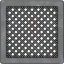
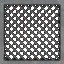
Added tile and slate blocks

diff --git a/core/src/main/java/org/delaunois/ialon/state/BlockSelectionState.java b/core/src/main/java/org/delaunois/ialon/state/BlockSelectionState.java
@@ -91,6 +91,8 @@ import static org.delaunois.ialon.IalonBlock.METAL2;
 import static org.delaunois.ialon.IalonBlock.METAL3;
 import static org.delaunois.ialon.IalonBlock.METAL4;
 import static org.delaunois.ialon.IalonBlock.METAL5;
+import static org.delaunois.ialon.IalonBlock.SLATE;
+import static org.delaunois.ialon.IalonBlock.TILE_RED;
 
 
 public class BlockSelectionState extends BaseAppState implements ActionListener, AnalogListener {
@@ -186,6 +188,28 @@ public class BlockSelectionState extends BaseAppState implements ActionListener,
             getName(GRAVEL, STAIRS_EAST),
             getName(GRAVEL, STAIRS_INNER_CORNER_SOUTH),
             getName(GRAVEL, STAIRS_OUTER_CORNER_SOUTH),
+
+            getName(SLATE, CUBE),
+            getName(SLATE, DOUBLE_SLAB),
+            getName(SLATE, SLAB),
+            getName(SLATE, PLATE),
+            getName(SLATE, WEDGE_SOUTH),
+            getName(SLATE, PYRAMID),
+            getName(SLATE, POLE),
+            getName(SLATE, STAIRS_EAST),
+            getName(SLATE, STAIRS_INNER_CORNER_SOUTH),
+            getName(SLATE, STAIRS_OUTER_CORNER_SOUTH),
+
+            getName(TILE_RED, CUBE),
+            getName(TILE_RED, DOUBLE_SLAB),
+            getName(TILE_RED, SLAB),
+            getName(TILE_RED, PLATE),
+            getName(TILE_RED, WEDGE_SOUTH),
+            getName(TILE_RED, PYRAMID),
+            getName(TILE_RED, POLE),
+            getName(TILE_RED, STAIRS_EAST),
+            getName(TILE_RED, STAIRS_INNER_CORNER_SOUTH),
+            getName(TILE_RED, STAIRS_OUTER_CORNER_SOUTH),
 
             getName(PALM_TREE_LOG, CUBE),
             getName(PALM_TREE_LOG, DOUBLE_SLAB),

diff --git a/core/src/main/java/org/delaunois/ialon/IalonBlock.java b/core/src/main/java/org/delaunois/ialon/IalonBlock.java
@@ -2,19 +2,39 @@ package org.delaunois.ialon;
 
 public enum IalonBlock {
 
+    TILE_RED("tile_red"),
+    SLATE("slate"),
     METAL1("metal1"),
-    METAL2("metal2"),
+    METAL2("metal2", true, true),
     METAL3("metal3"),
     METAL4("metal4"),
-    METAL5("metal5");
+    METAL5("metal5", true, true);
 
     private final String name;
+    private final boolean solid;
+    private final boolean transparent;
 
     IalonBlock(String name) {
         this.name = name;
+        this.solid = true;
+        this.transparent = false;
+    }
+
+    IalonBlock(String name, boolean solid, boolean transparent) {
+        this.name = name;
+        this.transparent = transparent;
+        this.solid = solid;
     }
 
     public String getName() {
         return name;
+    }
+
+    public boolean isSolid() {
+        return solid;
+    }
+
+    public boolean isTransparent() {
+        return transparent;
     }
 }

diff --git a/core/src/main/java/org/delaunois/ialon/Ialon.java b/core/src/main/java/org/delaunois/ialon/Ialon.java
@@ -405,7 +405,7 @@ public class Ialon extends SimpleApplication implements ActionListener {
     private void registerIalonBlocks() {
         for (IalonBlock block : IalonBlock.values() ) {
             BlocksConfig.getInstance().getTypeRegistry().register(block.getName());
-            BlockDefinition def = new BlockDefinition(block.getName(), true, false, false)
+            BlockDefinition def = new BlockDefinition(block.getName(), block.isSolid(), block.isTransparent(), false)
                     .addShapes(ShapeIds.CUBE)
                     .addShapes(ShapeIds.ALL_PYRAMIDS)
                     .addShapes(ShapeIds.ALL_WEDGES)

diff --git a/core/src/main/java/org/delaunois/ialon/state/PlayerState.java b/core/src/main/java/org/delaunois/ialon/state/PlayerState.java
@@ -369,7 +369,7 @@ public class PlayerState extends BaseAppState implements ActionListener, AnalogL
 
     private void updatePlayerPosition() {
         if (playerLocation.y < 1) {
-            playerLocation.addLocal(0, MAXY, 0);
+            playerLocation.setY(MAXY);
         }
         // The player location is at the center of the capsule shape. So we need to level the camera
         // up to set it at the top of the shape.
